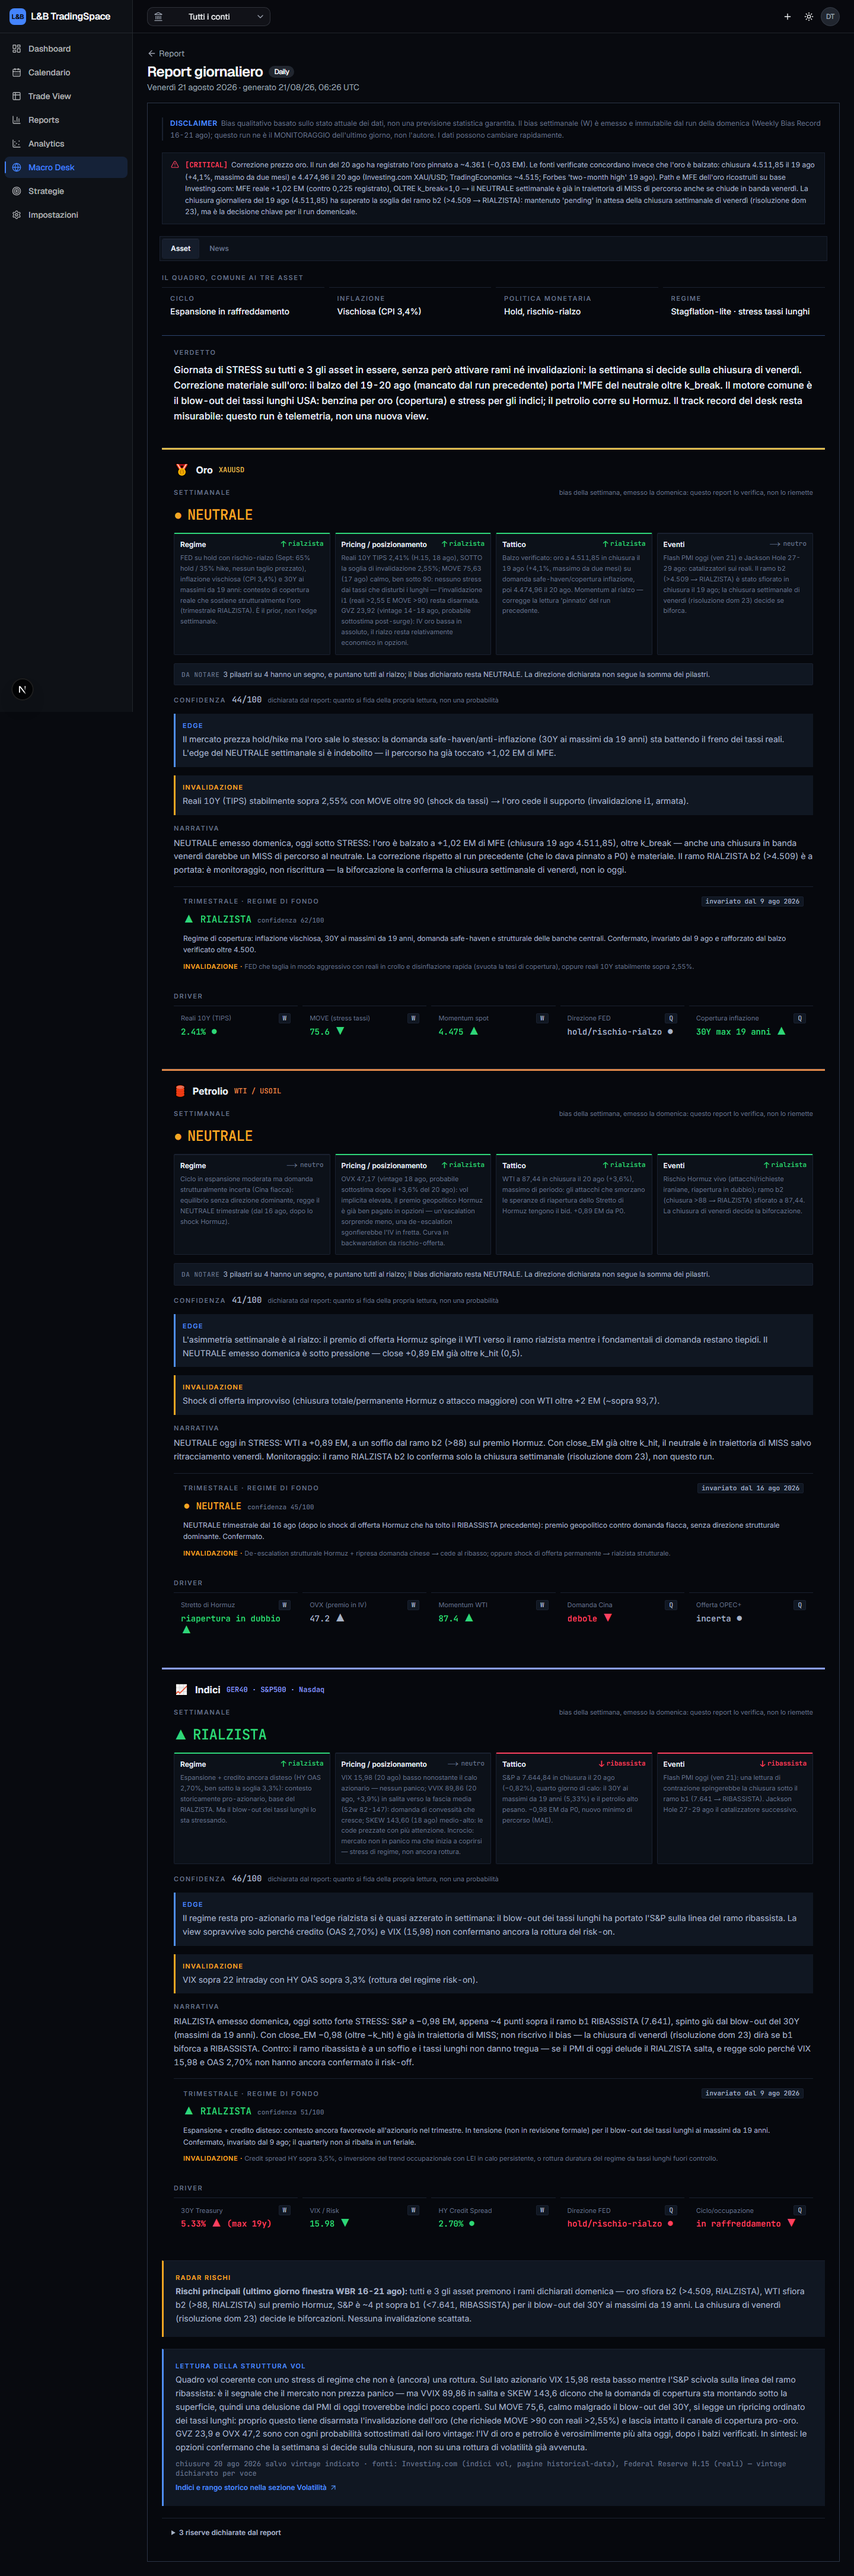
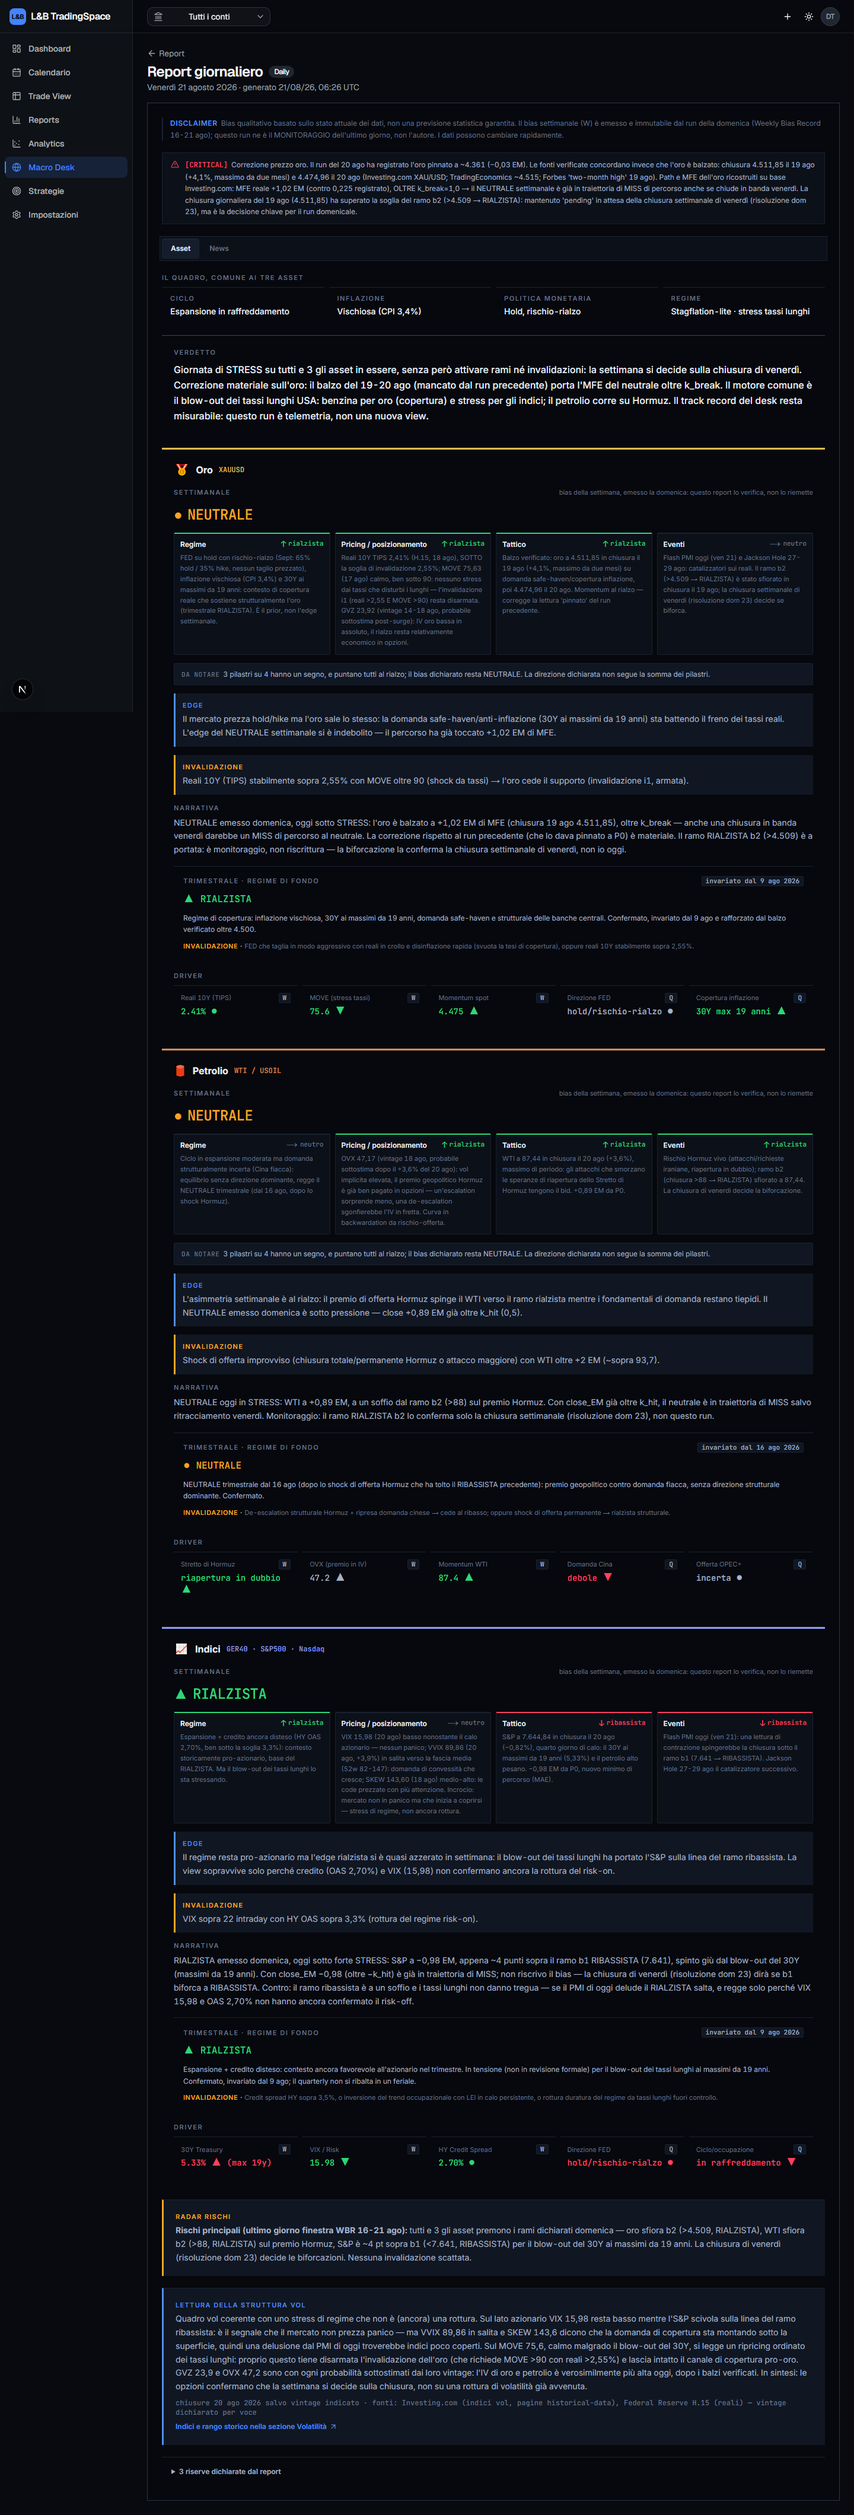
Il controllo sui segreti non decodifica più i binari
Con le schermate di verifica del Macro Desk in archivio, il caso che scorre
tutto l'albero versionato ha superato i cinque secondi di timeout: leggeva ogni
PNG come UTF-8 per passarci sopra delle regex che cercano `api_key=<valore>` in
testo. Lavoro che non può trovare niente, e che costava megabyte di pixel
decodificati a ogni esecuzione. Da 6,8 s a 0,47 s.

Cosa NON si perde: le regole di PERCORSO valgono per ogni file versionato,
binari compresi, quindi una sonda o un dump con un nome sospetto viene preso
comunque. Resta scoperto solo un segreto nascosto DENTRO un binario, che questo
controllo non sapeva riconoscere neanche prima.

Dentro anche le schermate del dettaglio report e dell'elenco rifatte dopo il
rebase: quella pagina è stata riscritta in parallelo da un altro ramo (banda dei
rilievi, confidenza a due tempi) e andava rivista dentro il nuovo ambiente
visivo, non solo ricompilata.

diff --git a/src/lib/segreti-nel-repo.test.ts b/src/lib/segreti-nel-repo.test.ts
@@ -34,6 +34,22 @@ const RADICE = process.cwd();
 /** Oltre questa soglia il file non si legge: sono lockfile e dati, non sonde. */
 const BYTE_MASSIMI = 2 * 1024 * 1024;
 
+/**
+ * Estensioni BINARIE: il percorso si controlla lo stesso, il contenuto no.
+ *
+ * Decodificare un PNG come UTF-8 per passarci sopra delle regex è lavoro che
+ * non può trovare niente — i pattern cercano `api_key=<valore>` in testo — e
+ * costa: con le schermate di verifica del Macro Desk in archivio questo caso
+ * ha superato i cinque secondi di timeout mentre macinava megabyte di pixel.
+ *
+ * Cosa NON si perde: le regole di PERCORSO valgono per ogni file versionato,
+ * binari compresi, quindi una sonda o un dump con un nome sospetto viene preso
+ * comunque. Resta scoperto solo un segreto nascosto DENTRO un binario, che
+ * questo controllo non sapeva riconoscere neanche prima.
+ */
+const ESTENSIONI_BINARIE =
+  /\.(png|jpe?g|gif|webp|avif|ico|pdf|zip|gz|woff2?|ttf|otf|eot|mp4|webm|mp3|wav)$/i;
+
 function git(...argomenti: string[]): string {
   return execFileSync("git", argomenti, {
     encoding: "utf8",
@@ -75,7 +91,9 @@ function contenutiDaIndice(percorsi: string[]): Map<string, string> {
     if (sha) shaPerPercorso.set(percorso, sha);
   }
 
-  const voluti = percorsi.filter((p) => shaPerPercorso.has(p));
+  const voluti = percorsi.filter(
+    (p) => shaPerPercorso.has(p) && !ESTENSIONI_BINARIE.test(p),
+  );
   if (voluti.length === 0) return new Map();
 
   const grezzo = execFileSync(
